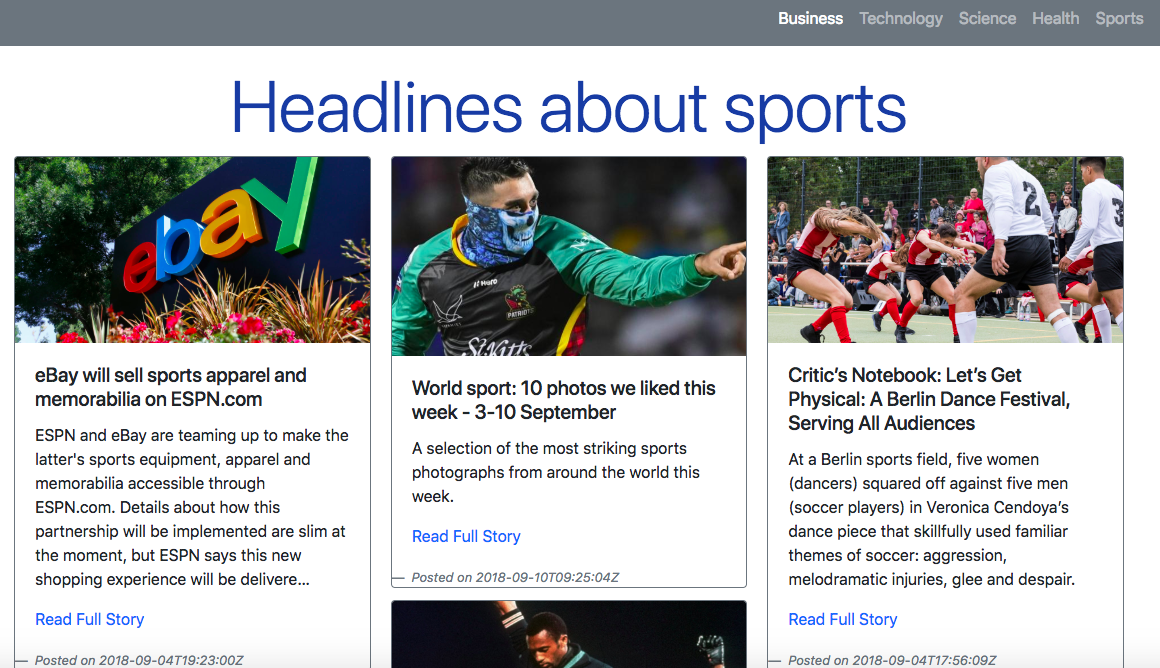
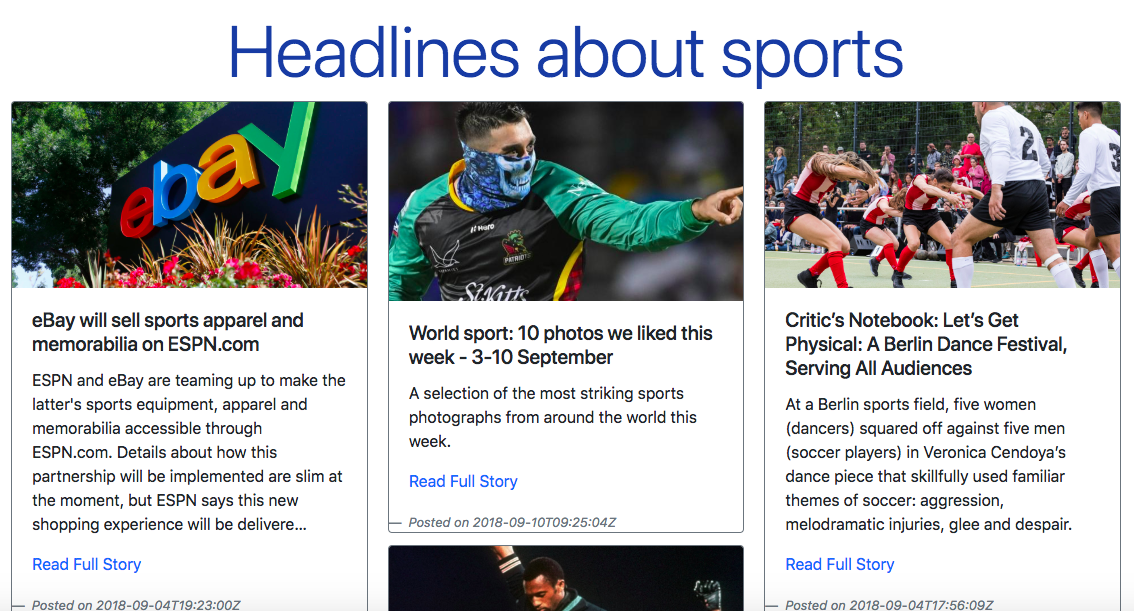
styled cards to stand out

diff --git a/index.html b/index.html
@@ -127,7 +127,7 @@
 </div>
 </div>
 
-<h3 id="cardtext" class="text-center">My Work</h3>
+<h3 id="cardtext" class="text-center">Some of my Work</h3>
 <hr class="light">
 
 <div class="container" >
